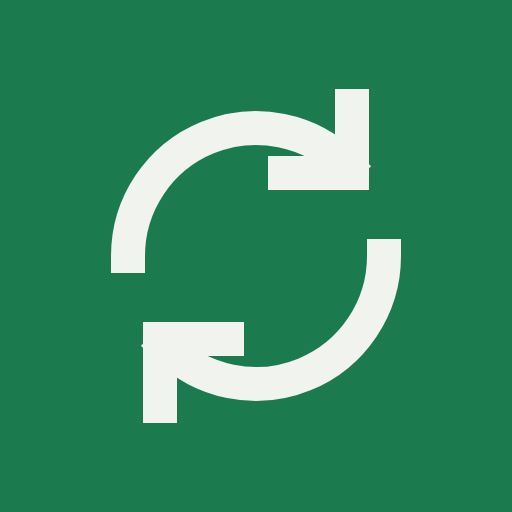
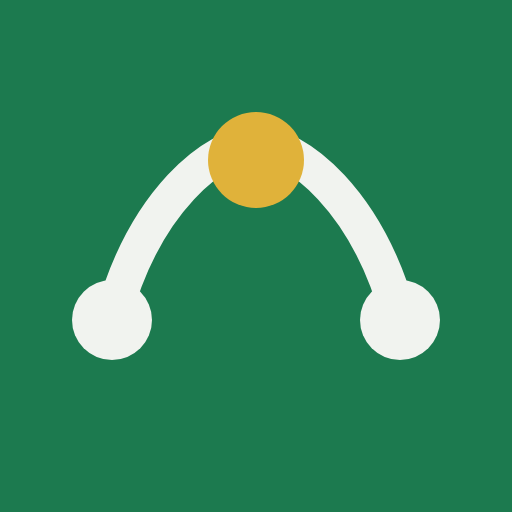
A mark that says what the product is
The old mark was a refresh icon: two arcs and two arrowheads, which is the same
glyph as reload, sync, undo and a dozen other things. It said "cycle", not
"barter", and nothing about it was ours.

The new one is the handoff itself — two people as the dots at either end, the arc
between them, and the object in gold at the top of it. That is the exact moment
the whole product is built around, the gold appears inside the mark rather than
beside it, and unlike a wordmark it survives at 16px, so it can be the favicon,
the app icon and the corner of a slide.

Two other directions were drawn and rejected: a rotational BB monogram that
turns to mush below 24px, and two-way arrows that land back in generic-exchange
territory.

Changed region(s): [[0.125, 0.1562, 0.875, 0.8438]]

diff --git a/public/brand.html b/public/brand.html
@@ -116,11 +116,11 @@
 <header class="hero">
   <div class="wrap">
     <div class="mark">
-      <svg width="74" height="74" viewBox="0 0 220 220" fill="none" aria-hidden="true">
-        <g stroke="currentColor" stroke-width="20" stroke-linecap="square">
-          <path d="M52 110a58 58 0 0 1 99-41"/><path d="M168 110a58 58 0 0 1-99 41"/>
-          <path d="M152 41v31h-31"/><path d="M68 179v-31h31"/>
-        </g>
+      <svg width="78" height="78" viewBox="0 0 100 100" fill="none" aria-hidden="true">
+        <path d="M14 66c8-30 26-44 36-44s28 14 36 44" stroke="currentColor" stroke-width="9" stroke-linecap="round"/>
+        <circle cx="14" cy="66" r="10" fill="currentColor"/>
+        <circle cx="86" cy="66" r="10" fill="currentColor"/>
+        <circle cx="50" cy="26" r="12" fill="var(--gold)"/>
       </svg>
       <h1>BetterBarter</h1>
     </div>
@@ -221,7 +221,7 @@
       <div class="rule rule--do"><span class="tag">Do</span><p>Set the wordmark as <b>BetterBarter</b> — mixed case, one word, no space.</p></div>
       <div class="rule rule--dont"><span class="tag">Not</span><p>BETTERBARTER, Better Barter, betterbarter, or the serif at weight 800 — Fraunces has no 800, so the browser fakes it and the letterforms thicken into mud.</p></div>
       <div class="rule rule--do"><span class="tag">Do</span><p>Use the loop mark on its own where space is tight: a favicon, an app icon, a corner of a slide.</p></div>
-      <div class="rule rule--dont"><span class="tag">Not</span><p>Rotate, recolour or fill the mark. It is two arcs and two arrowheads in one colour, and it stays that way.</p></div>
+      <div class="rule rule--dont"><span class="tag">Not</span><p>Recolour the object. The arc and the two people are one colour; the thing being handed over is goldenrod, and that is the only gold inside the mark.</p></div>
     </div>
   </div>
 </section>

diff --git a/src/site/LoopMark.tsx b/src/site/LoopMark.tsx
@@ -1,22 +1,31 @@
 /**
- * The mark: one object leaving a hand and arriving in another, closed into a
- * loop. Drawn rather than imported so it inherits the current colour, and kept
- * to four strokes so it survives at 18px beside the wordmark.
+ * The mark: two people, and the object arcing between them.
+ *
+ * The arc is the handoff; the dots at each end are the two students; the gold
+ * dot at the top is the thing being handed over — the one moment this whole
+ * product is built around, and the only place the second brand colour appears
+ * inside the mark. It survives 16px, which the wordmark does not, so this is
+ * what goes in a tab, an app icon and a corner.
  */
-export function LoopMark({ size = 20 }: { size?: number }) {
+export function LoopMark({ size = 20, gold = true }: { size?: number; gold?: boolean }) {
   return (
     <svg
       width={size}
       height={size}
-      viewBox="0 0 24 24"
+      viewBox="0 0 100 100"
       fill="none"
       aria-hidden="true"
       style={{ display: 'block', flex: 'none' }}
     >
-      <path d="M4 12a8 8 0 0 1 13.7-5.6" stroke="currentColor" strokeWidth="2.2" strokeLinecap="square" />
-      <path d="M20 12a8 8 0 0 1-13.7 5.6" stroke="currentColor" strokeWidth="2.2" strokeLinecap="square" />
-      <path d="M18 2.6v4.2h-4.2" stroke="currentColor" strokeWidth="2.2" strokeLinecap="square" />
-      <path d="M6 21.4v-4.2h4.2" stroke="currentColor" strokeWidth="2.2" strokeLinecap="square" />
+      <path
+        d="M14 66c8-30 26-44 36-44s28 14 36 44"
+        stroke="currentColor"
+        strokeWidth="9"
+        strokeLinecap="round"
+      />
+      <circle cx="14" cy="66" r="10" fill="currentColor" />
+      <circle cx="86" cy="66" r="10" fill="currentColor" />
+      <circle cx="50" cy="26" r="12" fill={gold ? 'var(--color-signal)' : 'currentColor'} />
     </svg>
   )
 }

diff --git a/public/deck.html b/public/deck.html
@@ -203,9 +203,11 @@
 
 <svg width="0" height="0" style="position:absolute" aria-hidden="true">
   <defs>
-    <g id="i-loop" fill="none" stroke="currentColor" stroke-width="2" stroke-linecap="square">
-      <path d="M3 12a9 9 0 0 1 15.4-6.3"/><path d="M21 12a9 9 0 0 1-15.4 6.3"/>
-      <path d="M19 2.5V7h-4.5"/><path d="M5 21.5V17h4.5"/>
+    <g id="i-loop" fill="none">
+      <path d="M3.4 15.8c1.9-7.2 6.2-10.6 8.6-10.6s6.7 3.4 8.6 10.6" stroke="currentColor" stroke-width="2.1" stroke-linecap="round"/>
+      <circle cx="3.4" cy="15.8" r="2.3" fill="currentColor"/>
+      <circle cx="20.6" cy="15.8" r="2.3" fill="currentColor"/>
+      <circle cx="12" cy="6.2" r="2.7" fill="currentColor"/>
     </g>
     <g id="i-trash" fill="none" stroke="currentColor" stroke-width="2" stroke-linecap="square">
       <path d="M4 7h16"/><path d="M6 7l1 13h10l1-13"/><path d="M9 7V4h6v3"/>
